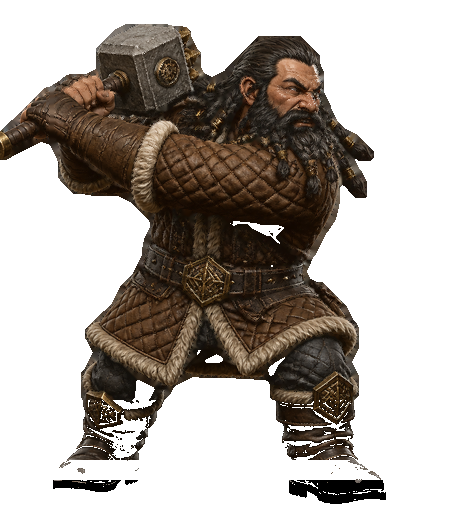
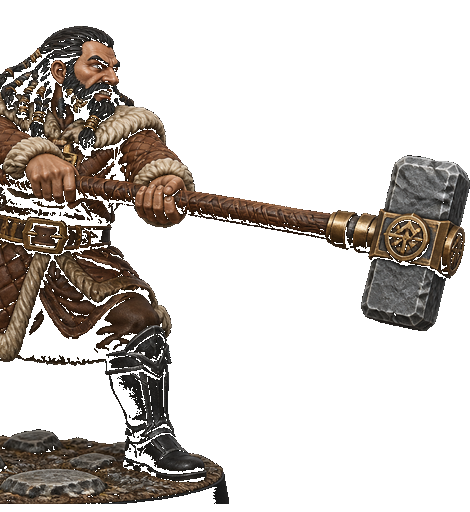
Bind SIGNED mid-swing atk sheets — ASSET_VER 96
Limner SIGNED CLEAN 2026-09-07 midswing: replace cocked-back
macar_atk / macar_axe_atk with arms-through-hit mid-swing.
Idle/w1/w2 unchanged. Soft: axe feet grafted.

diff --git a/index.html b/index.html
@@ -371,7 +371,7 @@ const FONT_QUOTE='"Cormorant Garamond",Palatino,Georgia,serif';
 
 /* ---------------------------- painted sprites (Baldur's Gate isometric) ---------------------------- */
 const SPR={};
-const ASSET_VER='95';
+const ASSET_VER='96';
 let SPLASH_STATE='loading';
 function assetUrl(src){
   const u=src+(src.indexOf('?')>=0?'&':'?')+'v='+ASSET_VER;
